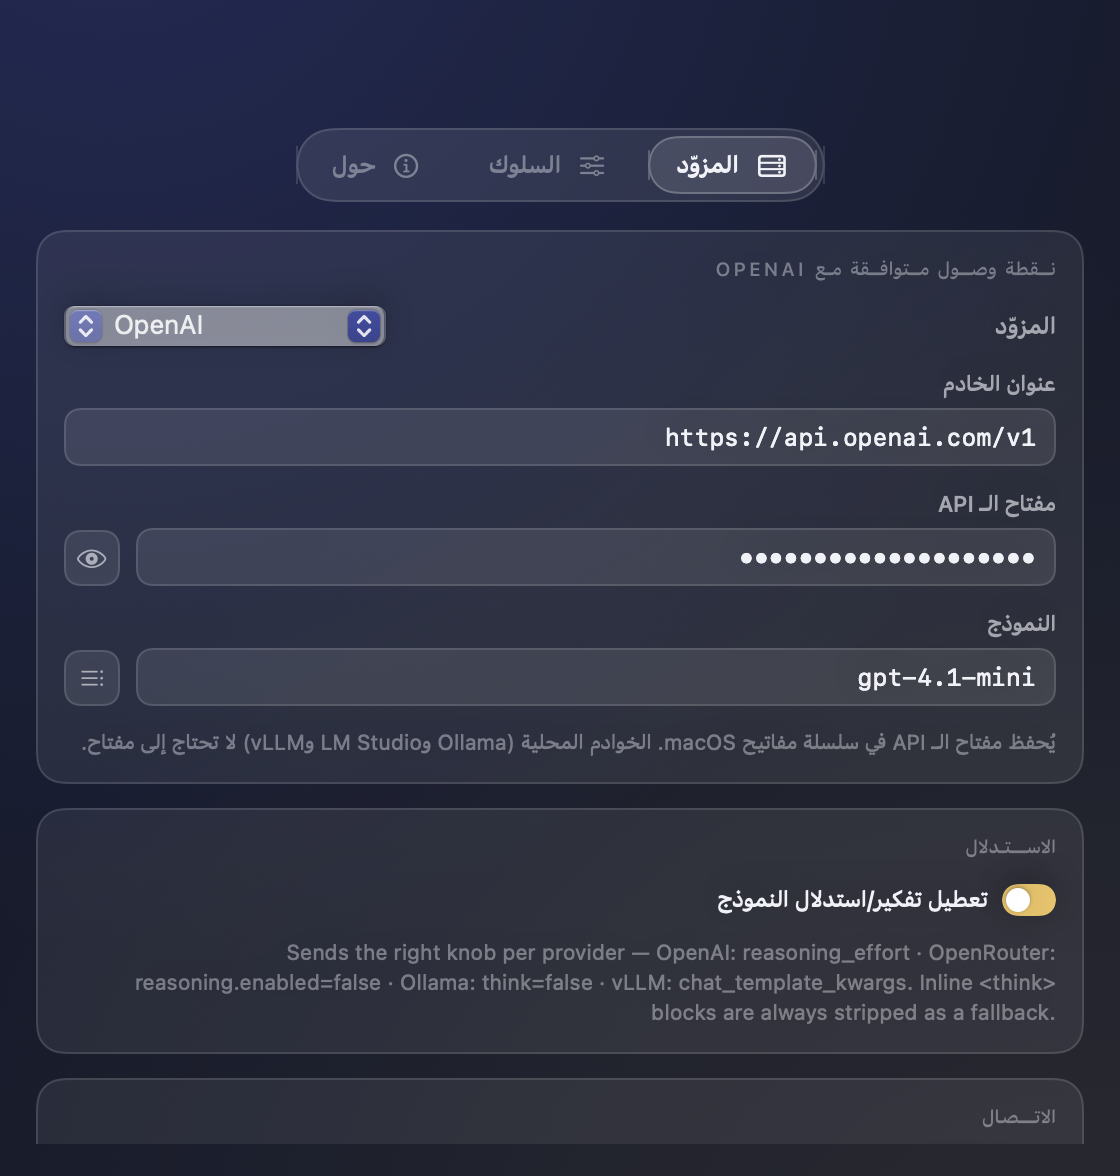
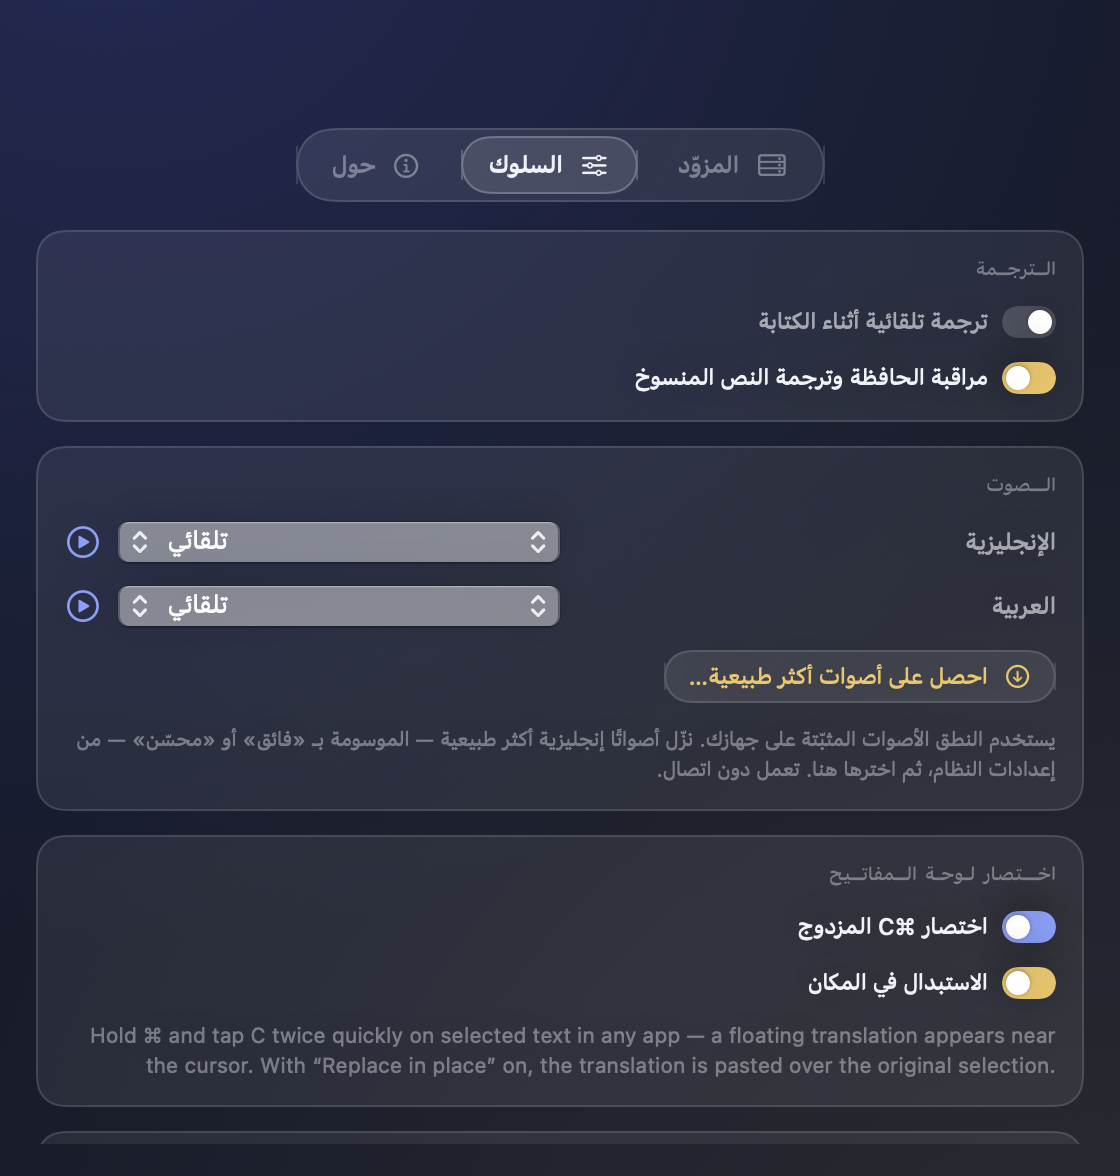
Add per-language voice picker + Apple Premium/Enhanced voice flow
Settings → Behavior gains a Voice card: choose the system voice per
language (English/Arabic) from installed voices grouped by quality, preview
it, and a "Get more natural voices…" button deep-links to System Settings to
download Apple's Premium/Enhanced English voices (offline, license-clean).
SpeechService honors the chosen voice, falling back to the best installed.

Version 1.7.0 (build 12).

diff --git a/Sources/TLang/UI/SettingsView.swift b/Sources/TLang/UI/SettingsView.swift
@@ -1,3 +1,4 @@
+import AVFoundation
 import SwiftUI
 
 struct SettingsView: View {
@@ -386,6 +387,75 @@ private struct ProviderSettingsTab: View {
     }
 }
 
+// MARK: - Voice
+
+/// Picks the system voice per language and points users at Apple's
+/// downloadable Premium/Enhanced voices for a more natural English voice.
+private struct VoiceSettingsCard: View {
+    @EnvironmentObject var settings: AppSettings
+    @ObservedObject private var speech = SpeechService.shared
+    @State private var refresh = 0
+    // Re-read installed voices periodically so newly-downloaded voices appear.
+    private let timer = Timer.publish(every: 3, on: .main, in: .common).autoconnect()
+
+    var body: some View {
+        let _ = refresh // make body depend on the refresh tick
+        let hasUpgraded = SpeechService.hasUpgradedVoice(isArabic: false)
+        return SettingsCard(
+            title: "Voice",
+            footer: "Speech uses your Mac's installed voices. Download more natural English voices — marked Premium or Enhanced — in System Settings, then choose one here. They run offline."
+        ) {
+            voiceRow(label: "English", isArabic: false, selection: $settings.englishVoiceID)
+            voiceRow(label: "Arabic", isArabic: true, selection: $settings.arabicVoiceID)
+            Button {
+                Permissions.openSpokenContentSettings()
+            } label: {
+                Label(
+                    settings.tr(hasUpgraded ? "Manage system voices…" : "Get more natural voices…"),
+                    systemImage: "arrow.down.circle"
+                )
+            }
+            .buttonStyle(GhostButtonStyle(tint: hasUpgraded ? Theme.textPrimary : Theme.gold))
+        }
+        .onReceive(timer) { _ in refresh += 1 }
+    }
+
+    @ViewBuilder
+    private func voiceRow(label: String, isArabic: Bool, selection: Binding<String>) -> some View {
+        let voices = SpeechService.installedVoices(isArabic: isArabic)
+        let isPreviewing = speech.speakingID == "preview"
+        HStack(spacing: 8) {
+            Text(settings.tr(label))
+                .font(.system(size: 12, weight: .medium))
+                .foregroundStyle(Theme.textSecondary)
+            Spacer()
+            Picker("", selection: selection) {
+                Text(settings.tr("Automatic")).tag("")
+                ForEach(voices, id: \.identifier) { voice in
+                    Text("\(voice.name) · \(localizedQuality(voice.quality))").tag(voice.identifier)
+                }
+            }
+            .labelsHidden()
+            .pickerStyle(.menu)
+            .frame(maxWidth: 220)
+            Button {
+                if isPreviewing { speech.stop() }
+                else { speech.preview(voiceID: selection.wrappedValue, isArabic: isArabic) }
+            } label: {
+                Image(systemName: isPreviewing ? "stop.circle.fill" : "play.circle")
+                    .font(.system(size: 16))
+                    .foregroundStyle(Theme.lapis)
+            }
+            .buttonStyle(.plain)
+            .help(settings.tr("Preview"))
+        }
+    }
+
+    private func localizedQuality(_ quality: AVSpeechSynthesisVoiceQuality) -> String {
+        settings.tr(SpeechService.qualityLabel(quality))
+    }
+}
+
 // MARK: - Behavior
 
 private struct BehaviorSettingsTab: View {
@@ -405,6 +475,8 @@ private struct BehaviorSettingsTab: View {
                     Toggle(settings.tr("Watch clipboard and translate copied text"), isOn: $settings.clipboardWatcher)
                         .toggleStyle(PillToggleStyle(tint: Theme.gold))
                 }
+
+                VoiceSettingsCard()
 
                 SettingsCard(
                     title: "Hotkey",
@@ -568,7 +640,7 @@ private struct AboutTab: View {
                 .multilineTextAlignment(.center)
                 .font(.system(size: 12))
                 .foregroundStyle(Theme.textSecondary)
-            Text(settings.tr("Version") + " 1.6.4")
+            Text(settings.tr("Version") + " 1.7.0")
                 .font(.system(size: 10, weight: .medium))
                 .foregroundStyle(Theme.textTertiary)
                 .padding(.horizontal, 9)

diff --git a/Sources/TLang/Services/SpeechService.swift b/Sources/TLang/Services/SpeechService.swift
@@ -37,6 +37,18 @@ final class SpeechService: NSObject, ObservableObject {
         synthesizer.speak(utterance)
     }
 
+    /// Speaks a short sample with a specific voice (for the Settings preview).
+    func preview(voiceID: String, isArabic: Bool) {
+        stop()
+        let sample = isArabic
+            ? "مرحبًا، هذه معاينة لجودة الصوت."
+            : "Hello — this is a preview of the voice quality."
+        let utterance = AVSpeechUtterance(string: sample)
+        utterance.voice = AVSpeechSynthesisVoice(identifier: voiceID) ?? Self.bestVoice(isArabic: isArabic)
+        speakingID = "preview"
+        synthesizer.speak(utterance)
+    }
+
     func stop() {
         if synthesizer.isSpeaking {
             synthesizer.stopSpeaking(at: .immediate)
@@ -44,10 +56,39 @@ final class SpeechService: NSObject, ObservableObject {
         speakingID = nil
     }
 
-    /// Best installed voice for the language. English prefers a female voice;
-    /// within that, higher quality wins, then the canonical region
-    /// (en-US / ar-001 Majed).
+    /// Installed voices for a language, best quality first (for the picker).
+    static func installedVoices(isArabic: Bool) -> [AVSpeechSynthesisVoice] {
+        let prefix = isArabic ? "ar" : "en"
+        return AVSpeechSynthesisVoice.speechVoices()
+            .filter { $0.language.hasPrefix(prefix) }
+            .sorted { a, b in
+                if a.quality != b.quality { return a.quality.rawValue > b.quality.rawValue }
+                return a.name.localizedCaseInsensitiveCompare(b.name) == .orderedAscending
+            }
+    }
+
+    /// True when at least one Enhanced/Premium voice is installed for the language.
+    static func hasUpgradedVoice(isArabic: Bool) -> Bool {
+        installedVoices(isArabic: isArabic).contains { $0.quality != .default }
+    }
+
+    static func qualityLabel(_ quality: AVSpeechSynthesisVoiceQuality) -> String {
+        switch quality {
+        case .premium: return "Premium"
+        case .enhanced: return "Enhanced"
+        default: return "Standard"
+        }
+    }
+
+    /// Best voice for the language: a user-chosen voice if set and still
+    /// installed, otherwise the best installed (English prefers a female voice;
+    /// then higher quality, then the canonical region en-US / ar-001 Majed).
     static func bestVoice(isArabic: Bool) -> AVSpeechSynthesisVoice? {
+        let chosenID = isArabic ? AppSettings.shared.arabicVoiceID : AppSettings.shared.englishVoiceID
+        if !chosenID.isEmpty, let chosen = AVSpeechSynthesisVoice(identifier: chosenID) {
+            return chosen
+        }
+
         let prefix = isArabic ? "ar" : "en"
         let preferredRegion = isArabic ? "ar-001" : "en-US"
 

diff --git a/Sources/TLang/Models/AppSettings.swift b/Sources/TLang/Models/AppSettings.swift
@@ -22,6 +22,8 @@ final class AppSettings: ObservableObject {
         static let launchAtLogin = "launchAtLogin"
         static let appearance = "appearanceMode"
         static let uiLanguage = "uiLanguage"
+        static let englishVoiceID = "englishVoiceID"
+        static let arabicVoiceID = "arabicVoiceID"
     }
 
     private let defaults = UserDefaults.standard
@@ -88,6 +90,13 @@ final class AppSettings: ObservableObject {
     @Published var uiLanguage: AppLanguage {
         didSet { defaults.set(uiLanguage.rawValue, forKey: K.uiLanguage) }
     }
+    /// Chosen system voice identifier per language ("" = automatic best).
+    @Published var englishVoiceID: String {
+        didSet { defaults.set(englishVoiceID, forKey: K.englishVoiceID) }
+    }
+    @Published var arabicVoiceID: String {
+        didSet { defaults.set(arabicVoiceID, forKey: K.arabicVoiceID) }
+    }
 
     var resolvedLanguage: ResolvedLanguage { Localizer.resolve(uiLanguage) }
     var uiLayoutDirection: LayoutDirection { resolvedLanguage.layoutDirection }
@@ -134,6 +143,8 @@ final class AppSettings: ObservableObject {
         launchAtLogin = Self.bool(d, K.launchAtLogin, default: false)
         appearance = AppearanceMode(rawValue: d.string(forKey: K.appearance) ?? "") ?? .system
         uiLanguage = AppLanguage(rawValue: d.string(forKey: K.uiLanguage) ?? "") ?? .system
+        englishVoiceID = d.string(forKey: K.englishVoiceID) ?? ""
+        arabicVoiceID = d.string(forKey: K.arabicVoiceID) ?? ""
     }
 
     private static func bool(_ d: UserDefaults, _ key: String, default def: Bool) -> Bool {

diff --git a/Sources/TLang/Models/Localizer.swift b/Sources/TLang/Models/Localizer.swift
@@ -129,6 +129,19 @@ enum Localizer {
         "Grant…": "منح…",
         "Save translation history": "حفظ سجل الترجمة",
         "entries stored locally": "عنصرًا محفوظًا محليًا",
+        // Voice
+        "Voice": "الصوت",
+        "English": "الإنجليزية",
+        "Arabic": "العربية",
+        "Automatic": "تلقائي",
+        "Premium": "فائق",
+        "Enhanced": "محسّن",
+        "Standard": "قياسي",
+        "Preview": "معاينة",
+        "Get more natural voices…": "احصل على أصوات أكثر طبيعية…",
+        "Manage system voices…": "إدارة أصوات النظام…",
+        "Speech uses your Mac's installed voices. Download more natural English voices — marked Premium or Enhanced — in System Settings, then choose one here. They run offline.":
+            "يستخدم النطق الأصوات المثبّتة على جهازك. نزّل أصواتًا إنجليزية أكثر طبيعية — الموسومة بـ «فائق» أو «محسّن» — من إعدادات النظام، ثم اخترها هنا. تعمل دون اتصال.",
         "Clear History…": "مسح السجل…",
         "Version": "الإصدار",
         "App": "التطبيق",

diff --git a/Sources/TLang/Services/PasteService.swift b/Sources/TLang/Services/PasteService.swift
@@ -14,6 +14,13 @@ enum Permissions {
         let url = URL(string: "x-apple.systempreferences:com.apple.preference.security?Privacy_Accessibility")!
         NSWorkspace.shared.open(url)
     }
+
+    /// Opens Accessibility → Spoken Content, where users download and manage
+    /// the Premium/Enhanced system voices.
+    static func openSpokenContentSettings() {
+        let url = URL(string: "x-apple.systempreferences:com.apple.preference.universalaccess?TextToSpeech")!
+        NSWorkspace.shared.open(url)
+    }
 }
 
 enum PasteService {

diff --git a/README.md b/README.md
@@ -37,8 +37,9 @@ The interface is fully localized into Arabic with right-to-left layout
   original selection automatically.
 - **Menu bar + full window** — a compact menu bar popover and a full translator
   window; optionally hide the Dock icon for menu-bar-only mode.
-- **Text-to-speech** — speaker icon on every pane reads the text aloud with the
-  best installed system voice for each language (offline, free).
+- **Text-to-speech** — speaker icon on every pane reads the text aloud (offline,
+  free). Pick a voice per language in Settings, preview it, and download more
+  natural **Premium/Enhanced** system voices straight from there.
 - **Dictation** — mic button transcribes speech into the source pane (Arabic or
   English) with on-device speech recognition; the mic glows red and pulses while
   it's listening.
